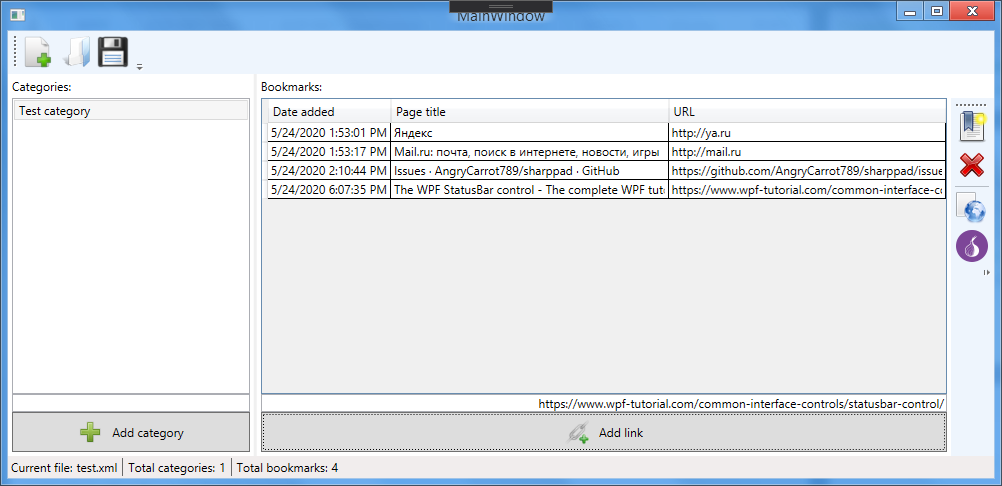
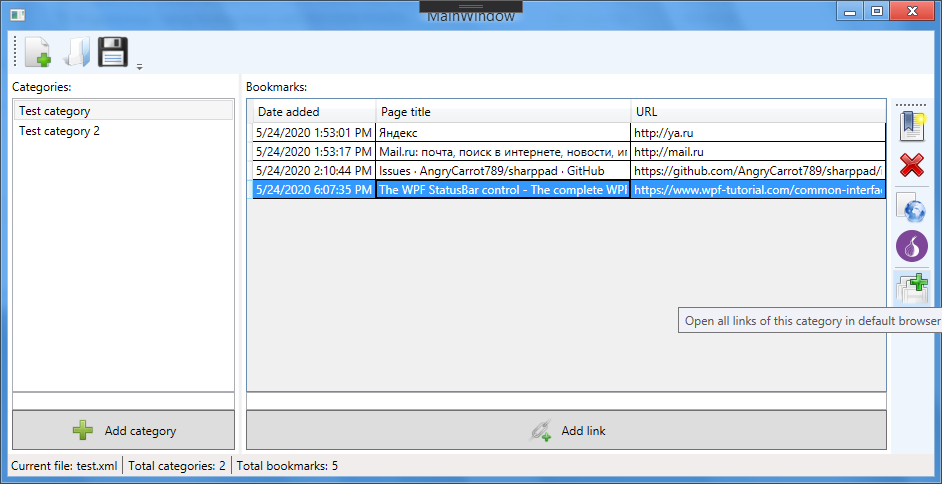
Added Open All button

diff --git a/BookmarkManager/Views/MainWindow.xaml b/BookmarkManager/Views/MainWindow.xaml
@@ -80,15 +80,19 @@
                     <Button>
                         <Image Source="../Resources/newrecord.png" Height="32" ToolTip="Add new bookmark" />
                     </Button>
-                    <Button>
+                    <Button Command="{Binding DeleteBookmarkCommand}">
                         <Image Source="../Resources/deleterecord.png" Height="32" ToolTip="Delete bookmark"/>
                     </Button>
                     <Separator />
-                    <Button>
+                    <Button Command="{Binding OpenInDefaultBrowserCommand}">
                         <Image Source="../Resources/openbrowser.png" Height="32" ToolTip="Open in default browser"/>
                     </Button>
                     <Button>
                         <Image Source="../Resources/tor.png" Height="32" ToolTip="Open in TOR browser"/>
+                    </Button>
+                    <Separator />
+                    <Button Command="{Binding OpenAllCommand}">
+                        <Image Source="../Resources/openall.png" Height="32" ToolTip="Open all links of this category in default browser"/>
                     </Button>
                 </ToolBar>
             </ToolBarTray>

diff --git a/BookmarkManager/ViewModels/MainViewModel.cs b/BookmarkManager/ViewModels/MainViewModel.cs
@@ -100,6 +100,9 @@ namespace BookmarkManager.ViewModels
         public DelegateCommand NewDbCommand { get; }
         public DelegateCommand OpenDbCommand { get; }
         public DelegateCommand SaveDbCommand { get; }
+        public DelegateCommand OpenInDefaultBrowserCommand { get; }
+        public DelegateCommand OpenAllCommand { get; }
+        public DelegateCommand DeleteBookmarkCommand { get; }
 
 
         public MainViewModel()
@@ -109,8 +112,35 @@ namespace BookmarkManager.ViewModels
             NewDbCommand = new DelegateCommand(NewDb);
             OpenDbCommand = new DelegateCommand(OpenDb);
             SaveDbCommand = new DelegateCommand(SaveDb);
+            OpenInDefaultBrowserCommand = new DelegateCommand(OpenInDefaultBrowser);
+            OpenAllCommand = new DelegateCommand(OpenAll);
+            DeleteBookmarkCommand= new DelegateCommand(DeleteBookmark);
 
             CheckCommandLineArgs();
+        }
+
+        private void OpenAll()
+        {
+            if (SelectedCategory == null) return;
+            foreach (var bookmark in DisplayingBookmarks)
+            {
+                System.Diagnostics.Process.Start(bookmark.Url);
+            }
+        }
+
+        private void DeleteBookmark()
+        {
+            if (SelectedBookmark == null) return;
+            CurrentBookmarkStorage.Bookmarks.Remove(SelectedBookmark);
+
+            RefreshCategory();
+            SaveCurrentBookmarkStorage();
+        }
+
+        private void OpenInDefaultBrowser()
+        {
+            if (SelectedBookmark == null) return;
+            System.Diagnostics.Process.Start(SelectedBookmark.Url);
         }
 
         private void CheckCommandLineArgs()
@@ -193,11 +223,13 @@ namespace BookmarkManager.ViewModels
             var title = WebPageParser.GetPageTitle(UrlText);
             CurrentBookmarkStorage.Bookmarks.Add(new Bookmark(UrlText, title, DateTime.Now, "", SelectedCategory));
             RefreshCategory();
+            SaveCurrentBookmarkStorage();
         }
 
         private void AddCategory()
         {
             CurrentBookmarkStorage.Categories.Add(CategoryText);
+            SaveCurrentBookmarkStorage();
         }
 
         private void RefreshCategory()

diff --git a/BookmarkManager/Services/WebPageParser.cs b/BookmarkManager/Services/WebPageParser.cs
@@ -1,4 +1,5 @@
-using System.Net;
+using System;
+using System.Net;
 using System.Text;
 using System.Text.RegularExpressions;
 
@@ -8,13 +9,22 @@ namespace BookmarkManager.Services
     {
         public static string GetPageTitle(string url)
         {
-            var webClient = new WebClient();
-            webClient.Encoding = Encoding.UTF8;
-            var html = webClient.DownloadString(url);
+            var title = "";
+            try
+            {
+                var webClient = new WebClient();
+                webClient.Encoding = Encoding.UTF8;
+                var html = webClient.DownloadString(url);
 
-            var title = Regex.Match(html, @"\<title\b[^>]*\>\s*(?<Title>[\s\S]*?)\</title\>",
-                RegexOptions.IgnoreCase).Groups["Title"].Value;
+                title = Regex.Match(html, @"\<title\b[^>]*\>\s*(?<Title>[\s\S]*?)\</title\>",
+                    RegexOptions.IgnoreCase).Groups["Title"].Value;
 
+                
+            }
+            catch (Exception e)
+            {
+                return title;
+            }
             return title;
         }
     }
